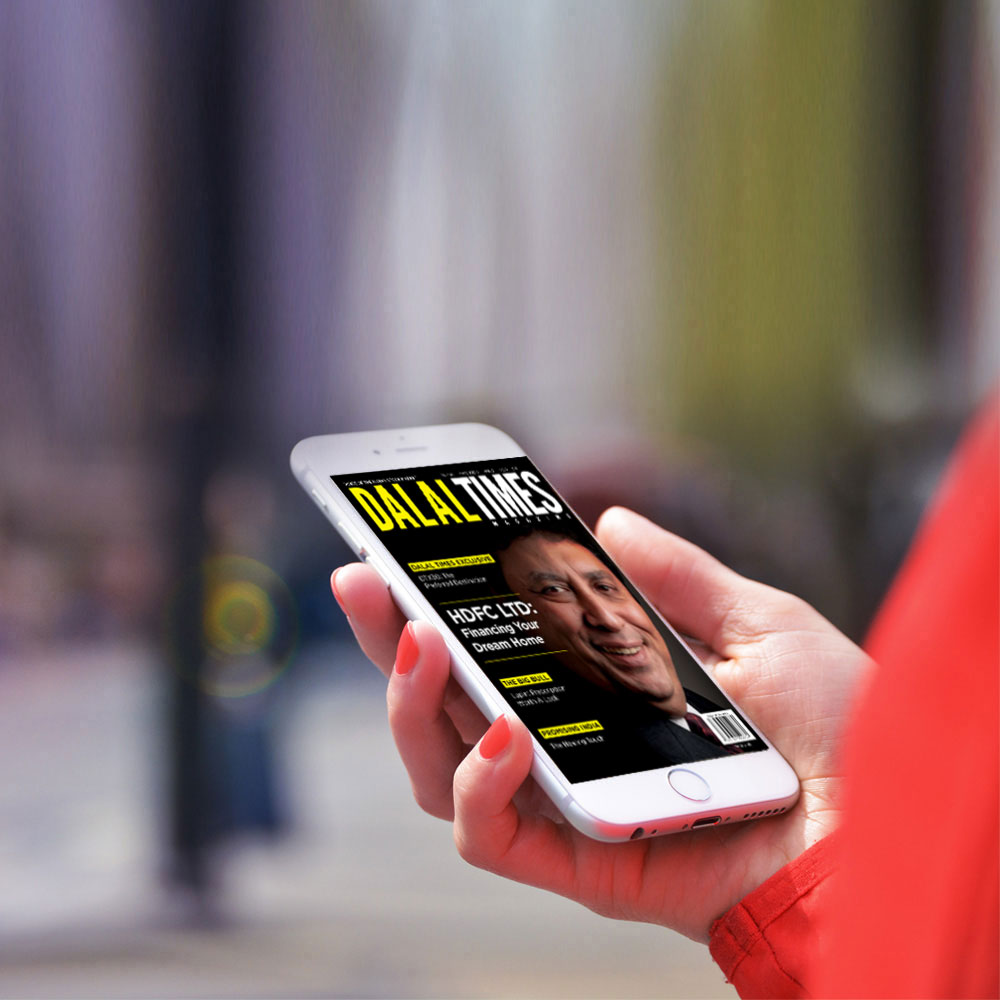
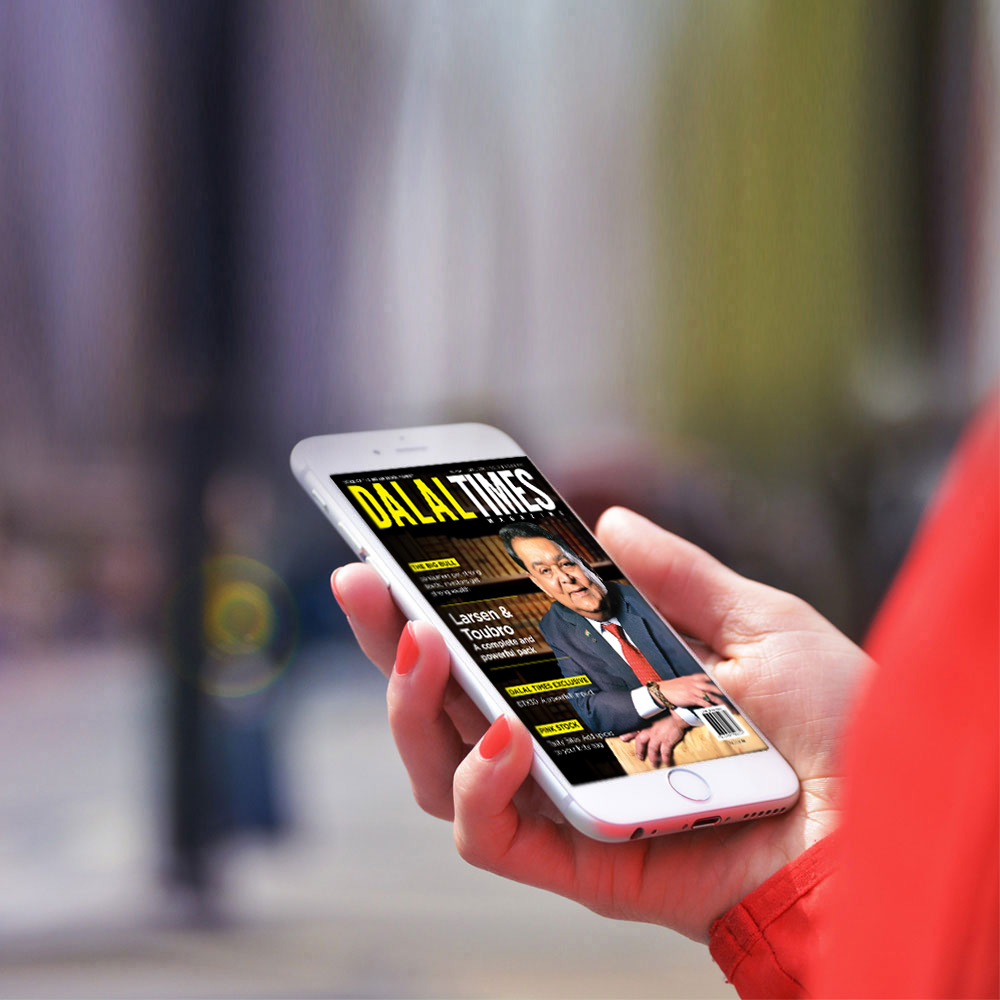
April 2016 magazine

Changed region(s): [[0.341, 0.465, 0.775, 0.806]]

diff --git a/magazine/view/home.tpl.php b/magazine/view/home.tpl.php
@@ -188,7 +188,7 @@ foreach ($this->_data['whydt']['featurelist-right'] as $key => $value) {
               <h2>Sneak Peek</h2>
             </div>
             <div style="text-align: justify;">
-                <p>The January issue of Dalal Times Magazine came out with a changed theme. From January 2016 onwards, we will be looking at companies, groups or companies within a business group that have the potential to create wealth for its investors in the future and also have some good track record attached to them. This time read our Cover Story on the Godrej Group and what the Chairperson of the group Adi Godrej have to say. The third issue (Vol. II) of the magazine also brings to you reader-favourite segments like How Good A Bet, Gems In The Offing, Pink Stock et al for investors to make better and informed portfolio decisions. Subscribe and read stock recommendations and suggestions that hold ground even in the present turbulent phase of the market.</p>
+                <p>In the April issue’s Cover Story, we bring to you India’s largest engineering company Larsen &Turbo. The analytical story focuses on how Larsen &Turbo has managed to stay ahead of the competition amid all the peaks and troughs of different economic cycles. The story also delves into how value unlocking in many of its subsidiaries would create wealth for the investors in the future. In the regular sections, we have DTX30 which has till date managed to outperform the benchmark indices since its inception. Furthermore, we have critically discussed the factors like how global factors affected the Indian equities and what to expect from the Indian markets in near to medium term. We also have carried two How Good a Bet columns with Idea Cellular and Reliance Infrastructure analysed in detail.</p>
               </div>
           </div>
         </div>
@@ -352,6 +352,7 @@ if ($_SESSION['_loggedIn'] == 1) {
 	$complete_issue_list = '';
 	if (is_array($this->_data['completeIssues'])) {
 		$issue_array = array(
+      'april2016' => array('issue' => 'April 2016', 'issue_url' => '/magazine/april2016', 'issue_cover_img' => 'view/april2016/cover.jpg'),
       'march2016' => array('issue' => 'March 2016', 'issue_url' => '/magazine/march2016', 'issue_cover_img' => 'view/march2016/cover.jpg'),
       'february2016' => array('issue' => 'Feb 2016', 'issue_url' => '/magazine/february2016', 'issue_cover_img' => 'view/february2016/cover.jpg'),
       'january2016' => array('issue' => 'Jan 2016', 'issue_url' => '/magazine/january2016', 'issue_cover_img' => 'view/january2016/cover.jpg'),
@@ -370,6 +371,7 @@ if ($_SESSION['_loggedIn'] == 1) {
 		}
 	}
 	$partial_issue_array = array(
+    'april2016' => array('issue' => 'April 2016', 'issue_url' => '/sneak-preview/april2016', 'issue_cover_img' => 'view/partial-april2016/cover.jpg'),
     'march2016' => array('issue' => 'March 2016', 'issue_url' => '/sneak-preview/march2016', 'issue_cover_img' => 'view/partial-march2016/cover.jpg'),
     'february2016' => array('issue' => 'Feb 2016', 'issue_url' => '/sneak-preview/february2016', 'issue_cover_img' => 'view/partial-february2016/cover.jpg'),
     'january2016' => array('issue' => 'Jan 2016', 'issue_url' => '/sneak-preview/january2016', 'issue_cover_img' => 'view/partial-january2016/cover.jpg'),
